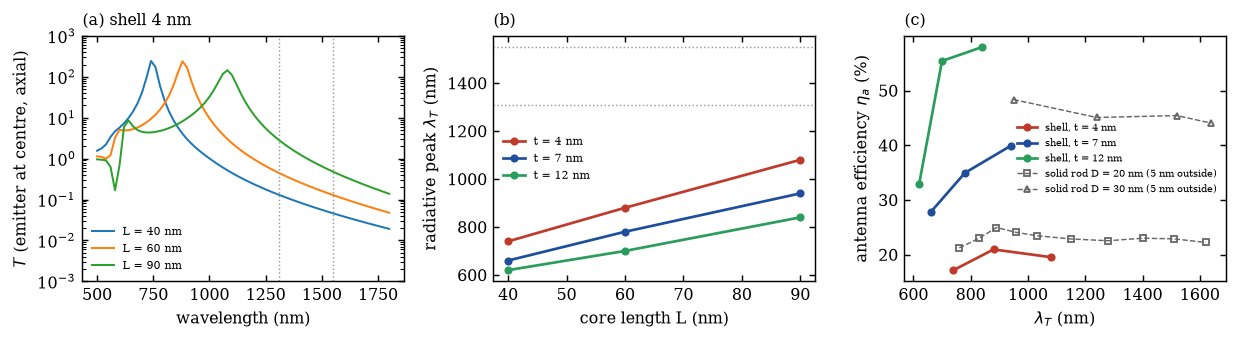
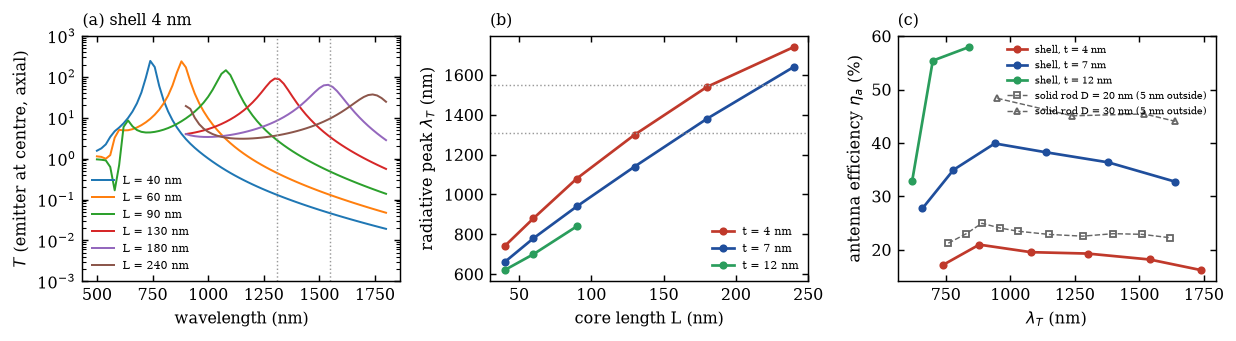
Nanoshell results for long cores (telecom range): analysis table and figure
Claude-Session: https://claude.ai/code/session_01RpLXD5KBSRmonucEmHsk6s

diff --git a/isi/results/nshell.md b/isi/results/nshell.md
@@ -7,9 +7,15 @@ Centre of the core, axial dipole; values at the radiative peak lambda_T. side/ca
 | L40_t4 | 740 | 245 | 1427 | 17.2% | 254 | 190 | 4.77 | 0.13 | 0.05 |
 | L60_t4 | 880 | 239 | 1143 | 20.9% | 246 | 124 | 0.77 | 0.45 | 0.13 |
 | L90_t4 | 1080 | 145 | 743 | 19.5% | 147 | 56 | 0.17 | 2.84 | 0.48 |
+| L130_t4 | 1300 | 91 | 471 | 19.3% | 91 | 31 | 0.05 | 89.01 | 3.36 |
+| L180_t4 | 1540 | 64 | 351 | 18.2% | 64 | 23 | 0.02 | 8.51 | 60.24 |
+| L240_t4 | 1740 | 37 | 229 | 16.2% | 37 | 15 | 0.01 | 3.69 | 9.69 |
 | L40_t7 | 660 | 155 | 558 | 27.7% | 157 | 135 | 6.35 | 0.06 | 0.02 |
 | L60_t7 | 780 | 138 | 396 | 34.9% | 141 | 82 | 0.96 | 0.16 | 0.06 |
 | L90_t7 | 940 | 120 | 301 | 39.9% | 121 | 47 | 0.22 | 0.69 | 0.19 |
+| L130_t7 | 1140 | 76 | 199 | 38.2% | 77 | 24 | 0.06 | 5.90 | 0.80 |
+| L180_t7 | 1380 | 55 | 151 | 36.4% | 55 | 15 | 0.02 | 30.11 | 7.18 |
+| L240_t7 | 1640 | 39 | 118 | 32.7% | 39 | 10 | 0.01 | 4.58 | 23.60 |
 | L40_t12 | 620 | 46 | 141 | 32.9% | 46 | 51 | 7.19 | 0.03 | 0.01 |
 | L60_t12 | 700 | 65 | 118 | 55.4% | 66 | 53 | 1.45 | 0.06 | 0.02 |
 | L90_t12 | 840 | 46 | 79 | 57.9% | 46 | 25 | 0.28 | 0.20 | 0.06 |
